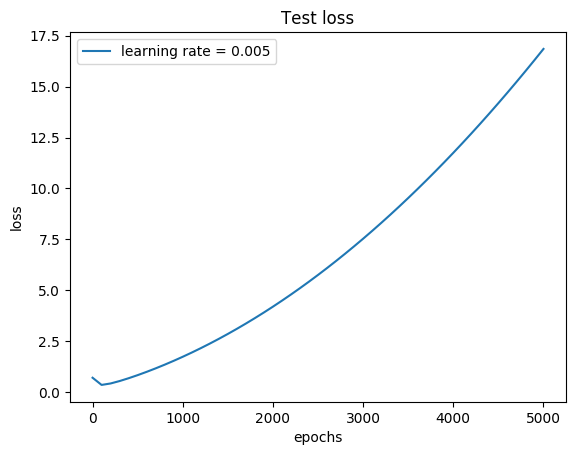
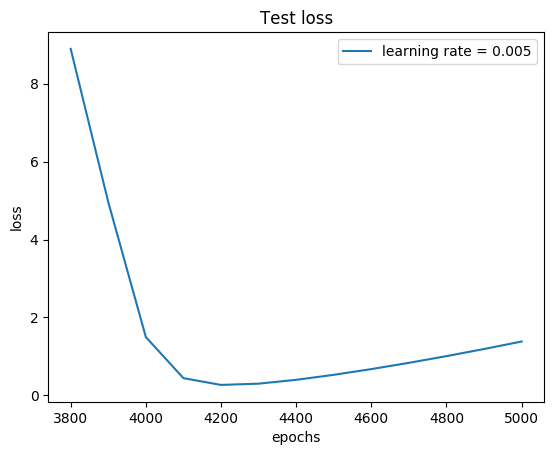
Removed gradient normalization as per prof's instructions, but getting far worse results now

diff --git a/starter.py b/starter.py
@@ -51,8 +51,6 @@ def grad_ce(w, b, x, y, reg):
     error = y_hat - y
     w_grad = (x * error.reshape((-1, 1))).mean(axis=0) + reg
     b_grad = error.mean(axis=0)
-    # w_grad = -(x * y.reshape((-1, 1)) / (1 + np.exp(y * (w * x).sum(axis=1))).reshape((-1, 1))).mean(axis=0) + reg
-    # b_grad = -(y / (1 + np.exp(y * b * 1))).mean(axis=0)
     return w_grad, b_grad
 
 
